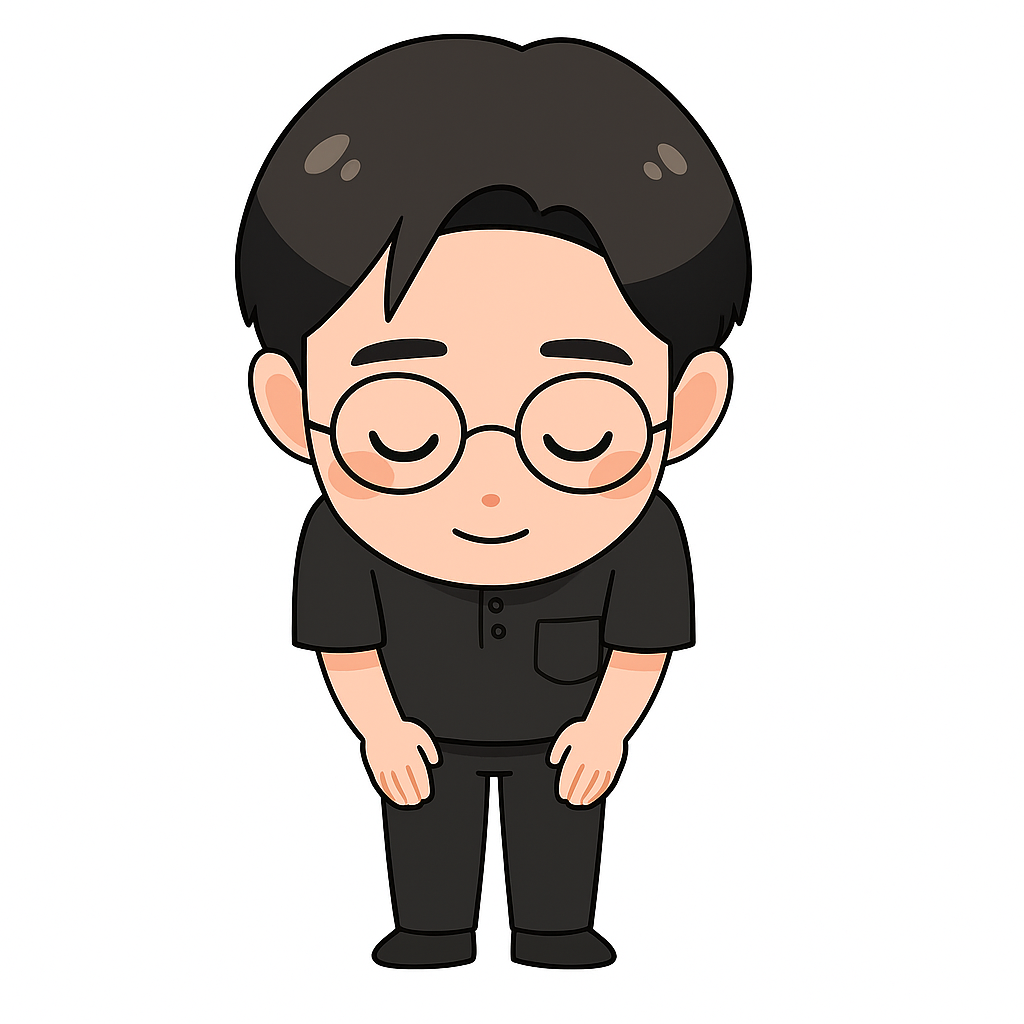
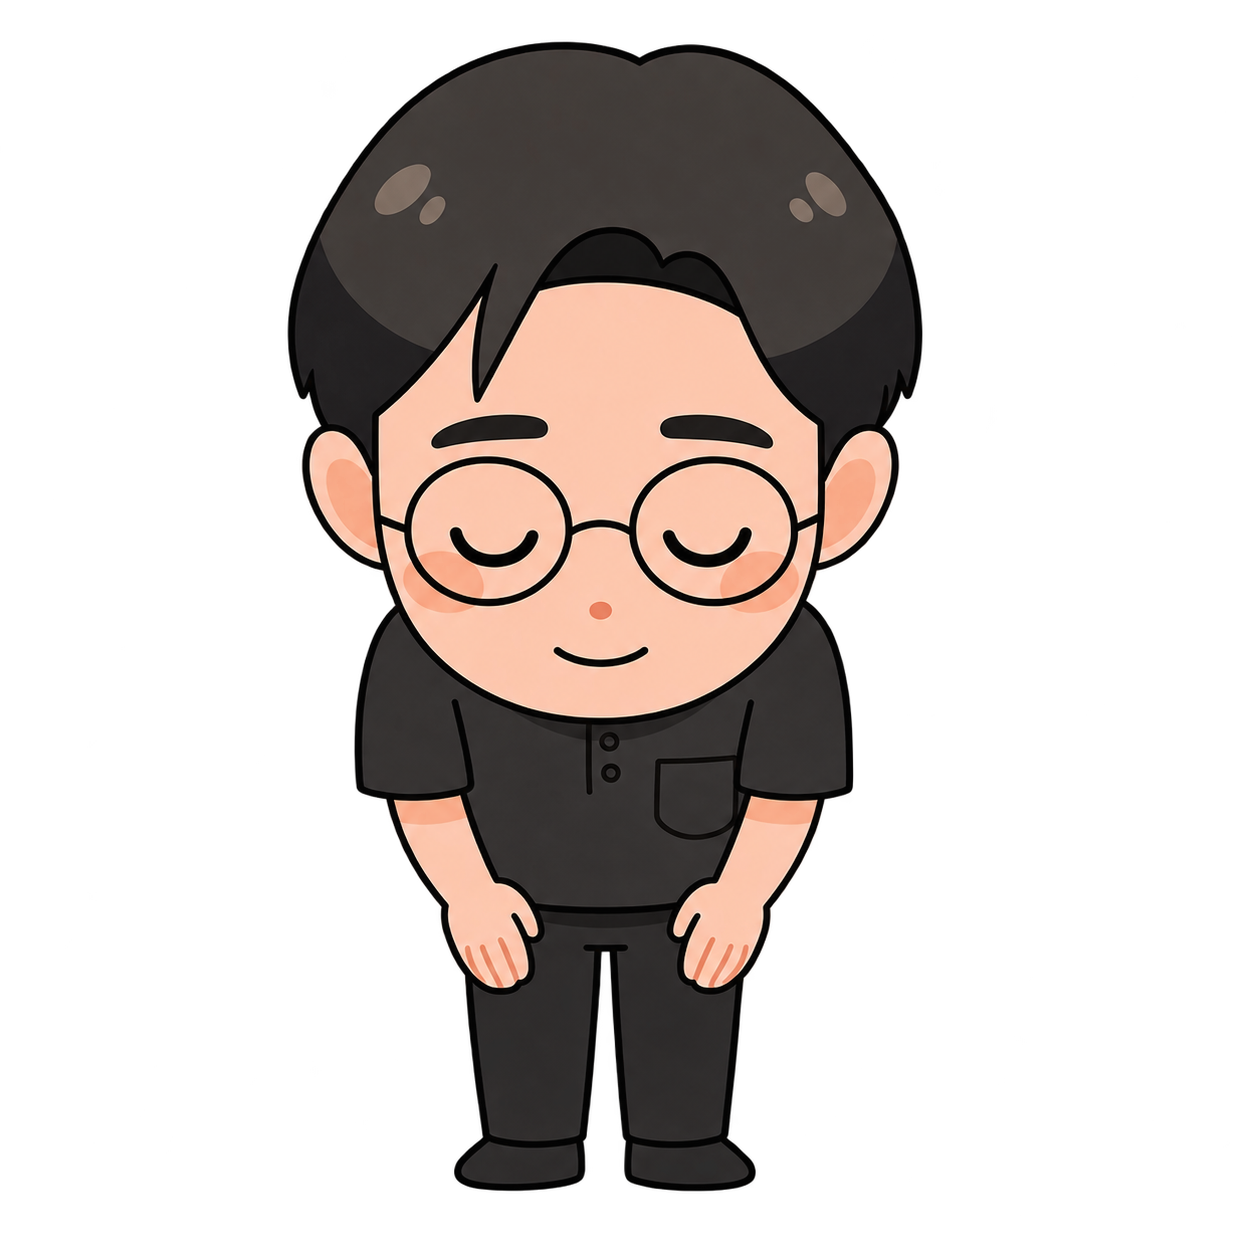
Finalize Instagram story templates and character layout

diff --git a/src/InstagramStoryEditor.tsx b/src/InstagramStoryEditor.tsx
@@ -34,7 +34,41 @@ export default function InstagramStoryEditor({ type, onClear }: { type: Type; on
   const [values, setValues] = useState(defaults); const [textStyles, setTextStyles] = useState<Record<StoryTextKey, StoryTextStyle>>(initialTextStyles); const [openTextSettings, setOpenTextSettings] = useState<StoryTextKey>(); const [picked, setPicked] = useState<HTMLImageElement>(); const [label, setLabel] = useState(''); const [scale, setScale] = useState(1); const [offsetX, setOffsetX] = useState(0); const [offsetY, setOffsetY] = useState(0); const [before, setBefore] = useState<ImageSettings>(emptyImageSettings); const [after, setAfter] = useState<ImageSettings>(emptyImageSettings); const [picker, setPicker] = useState(false); const [pickerTarget, setPickerTarget] = useState<'image' | 'before' | 'after'>('image'); const [expanded, setExpanded] = useState(false); const [done, setDone] = useState(false); const [status, setStatus] = useState(''); const [rendering, setRendering] = useState(false);
   const canvasRef = useRef<HTMLCanvasElement>(null); const sourceVideoRef = useRef<HTMLVideoElement>(null); const frameRef = useRef<number>();
   const quiz = type === 'instagram_story_2'; const videoStory = type !== 'instagram_story_1';
-  const drawReservation = useCallback(async () => { const canvas = canvasRef.current; if (!canvas) return; const context = canvas.getContext('2d')!; canvas.width = 1080; canvas.height = 1920; const background = await load(`${base}instagram-story-1-template.png`); context.drawImage(background, 0, 0); context.fillStyle = '#fff'; context.fillRect(155, 760, 770, 454); context.fillRect(155, 1248, 770, 498); clearDatePlaceholder(context); drawStyledText(context, values.date, 540, 535, textStyles.date); context.fillStyle = '#ffe762'; context.beginPath(); context.roundRect(180, 810, 520, 270, 25); context.fill(); ([['午前', values.am, 'am'], ['午後', values.pm, 'pm'], ['夜間', values.night, 'night']] as const).forEach(([period, vacancy, key], index) => drawStyledText(context, `【${period}】 ${vacancy}`, 440, 865 + index * 82, textStyles[key])); const hasOpening = [values.am, values.pm, values.night].some((vacancy) => vacancy !== '空きなし'); const mascot = await load(`${base}instagram-story-1-character-${hasOpening ? 'open' : 'full'}.png`); contain(context, mascot, 705, 790, 190, 290); drawStyledText(context, values.guide, 230, 1150, textStyles.guide, 'left'); context.font = `${textStyles.person.weight} ${textStyles.person.size}px ${textStyles.person.family}`; const personWidth = context.measureText(values.person).width; context.font = `${textStyles.theme.weight} ${textStyles.theme.size}px ${textStyles.theme.family}`; const themeWidth = context.measureText(values.theme).width; const gap = 45; const start = 540 - (personWidth + gap + themeWidth) / 2; drawStyledText(context, values.person, start + personWidth / 2, 1300, textStyles.person); drawStyledText(context, values.theme, start + personWidth + gap + themeWidth / 2, 1300, textStyles.theme); if (before.image) cover(context, before.image, 215, 1330, 300, 300, before.scale, before.offsetX, before.offsetY); if (after.image) cover(context, after.image, 565, 1330, 300, 300, after.scale, after.offsetX, after.offsetY); drawStyledText(context, 'Before', 365, 1680, textStyles.before); drawStyledText(context, 'After', 715, 1680, textStyles.after); }, [after, before, textStyles, values]);
+  const drawReservation = useCallback(async () => {
+    const canvas = canvasRef.current;
+    if (!canvas) return;
+    const context = canvas.getContext('2d')!;
+    canvas.width = 1080; canvas.height = 1920;
+    const background = await load(`${base}instagram-story-1-template.png`);
+    context.drawImage(background, 0, 0);
+
+    // White panels are painted before their content so later images cannot hide the heading.
+    context.fillStyle = '#fff';
+    context.fillRect(155, 760, 770, 454);
+    context.fillRect(155, 1248, 770, 522);
+    clearDatePlaceholder(context);
+    drawStyledText(context, values.date, 540, 535, textStyles.date);
+    context.fillStyle = '#ffe762'; context.beginPath(); context.roundRect(180, 810, 520, 270, 25); context.fill();
+    ([['午前', values.am, 'am'], ['午後', values.pm, 'pm'], ['夜間', values.night, 'night']] as const).forEach(([period, vacancy, key], index) => drawStyledText(context, `【${period}】 ${vacancy}`, 440, 865 + index * 82, textStyles[key]));
+    const hasOpening = [values.am, values.pm, values.night].some((vacancy) => vacancy !== '空きなし');
+    const mascot = await load(`${base}instagram-story-1-character-${hasOpening ? 'open' : 'full'}.png`);
+    contain(context, mascot, 600, 740, 360, 400);
+    drawStyledText(context, values.guide, 230, 1150, textStyles.guide, 'left');
+
+    const personY = 1272; const imageY = 1310; const imageHeight = 380; const labelY = 1720;
+    context.font = `${textStyles.person.weight} ${textStyles.person.size}px ${textStyles.person.family}`;
+    const personWidth = context.measureText(values.person).width;
+    context.font = `${textStyles.theme.weight} ${textStyles.theme.size}px ${textStyles.theme.family}`;
+    const themeWidth = context.measureText(values.theme).width;
+    const gap = 45; const start = 540 - (personWidth + gap + themeWidth) / 2;
+    if (before.image) cover(context, before.image, 215, imageY, 300, imageHeight, before.scale, before.offsetX, before.offsetY);
+    if (after.image) cover(context, after.image, 565, imageY, 300, imageHeight, after.scale, after.offsetX, after.offsetY);
+    // Draw the heading after image layers, at a distinct position above them.
+    drawStyledText(context, values.person, start + personWidth / 2, personY, textStyles.person);
+    drawStyledText(context, values.theme, start + personWidth + gap + themeWidth / 2, personY, textStyles.theme);
+    drawStyledText(context, 'Before', 365, labelY, textStyles.before);
+    drawStyledText(context, 'After', 715, labelY, textStyles.after);
+  }, [after, before, textStyles, values]);
   const drawVideoFrame = useCallback(() => { const canvas = canvasRef.current; const video = sourceVideoRef.current; if (!canvas || !video || video.readyState < HTMLMediaElement.HAVE_CURRENT_DATA) return; const context = canvas.getContext('2d')!; canvas.width = 1080; canvas.height = 1920; context.drawImage(video, 0, 0, 1080, 1920); if (quiz) { drawStyledText(context, values.question, 365, 700, textStyles.question, 'left'); drawStyledText(context, values.one, 470, 1010, textStyles.one); drawStyledText(context, values.two, 470, 1175, textStyles.two); } else if (picked) { const area = imageArea(type); cover(context, picked, area.x, area.y, area.width, area.height, scale, offsetX, offsetY); } }, [offsetX, offsetY, picked, quiz, scale, textStyles, type, values]);
   useEffect(() => { if (!videoStory) void drawReservation(); }, [drawReservation, videoStory]);
   useEffect(() => { if (!videoStory) return; const video = sourceVideoRef.current; if (!video) return; const renderPreview = () => { drawVideoFrame(); frameRef.current = requestAnimationFrame(renderPreview); }; const start = () => { void video.play().catch(() => undefined); cancelAnimationFrame(frameRef.current!); renderPreview(); }; video.addEventListener('loadeddata', start); video.addEventListener('seeked', drawVideoFrame); if (video.readyState >= HTMLMediaElement.HAVE_CURRENT_DATA) start(); return () => { video.pause(); video.removeEventListener('loadeddata', start); video.removeEventListener('seeked', drawVideoFrame); cancelAnimationFrame(frameRef.current!); }; }, [drawVideoFrame, videoStory, type]);
